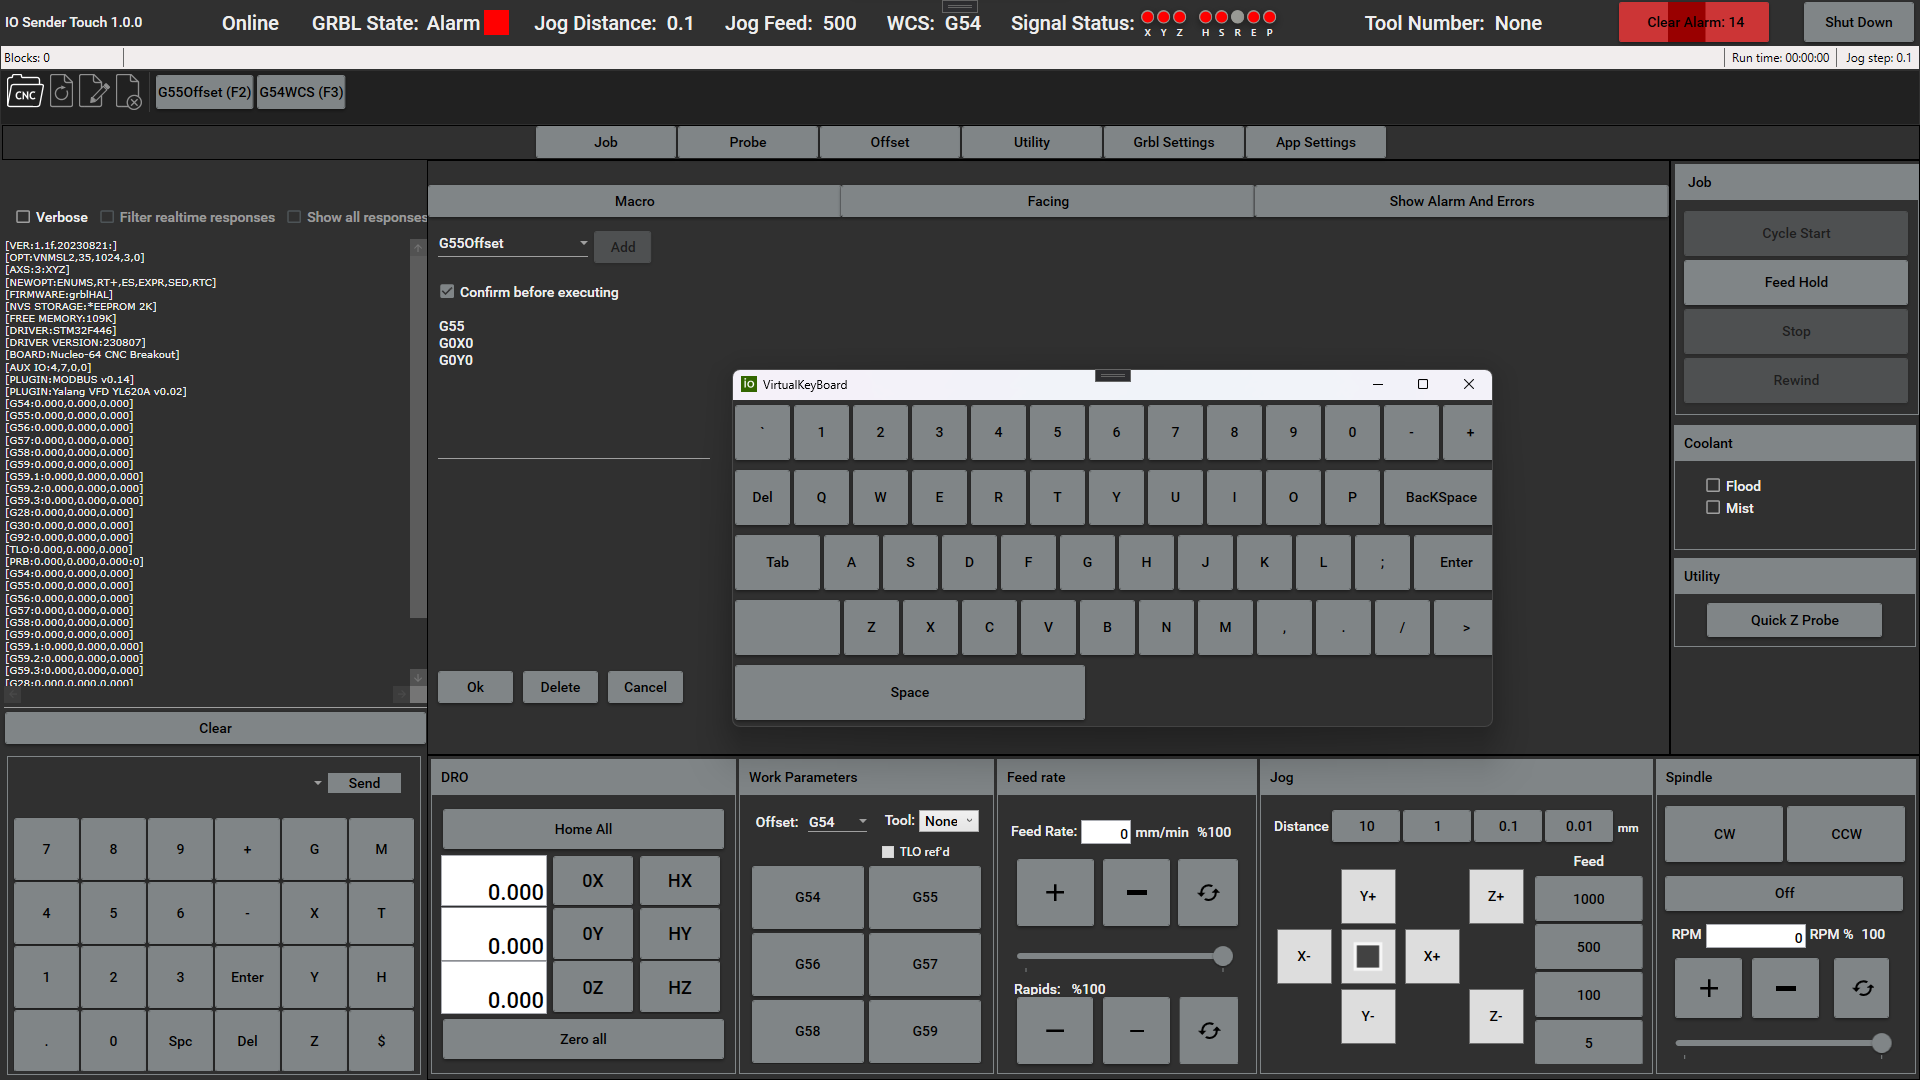
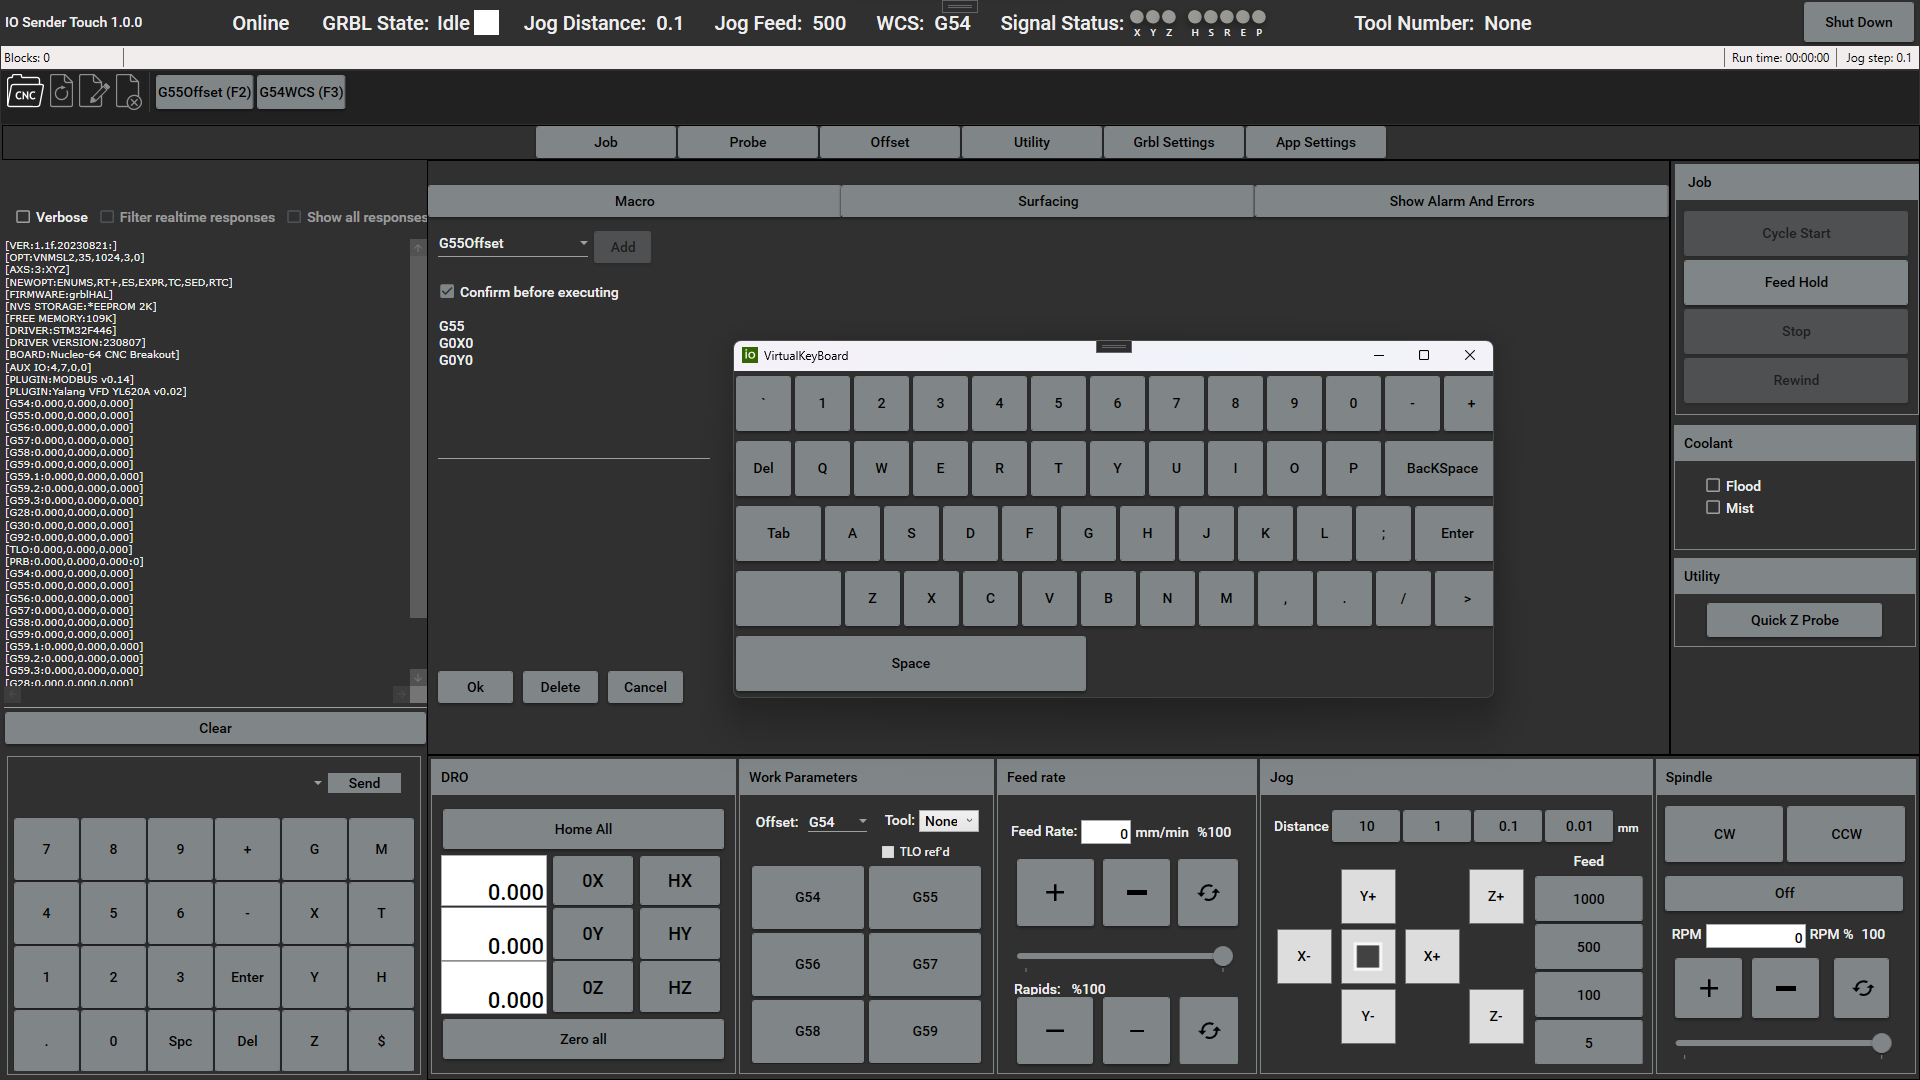
fixed screen shot

diff --git a/ioSender Touch/ioSender Touch/Views/UtilityView.xaml b/ioSender Touch/ioSender Touch/Views/UtilityView.xaml
@@ -17,9 +17,9 @@
                 <ColumnDefinition ></ColumnDefinition>
             </Grid.ColumnDefinitions>
             <Button Grid.Column="0" Name="BtnMacro" Content="Macro" Command="{Binding ShowView}" CommandParameter="Macro"></Button>
-            <Button Grid.Column="1" Name="Facing" Content="Facing" Command="{Binding ShowView}" CommandParameter="Surfacing"></Button>
+            <Button Grid.Column="1" Name="Facing" Content="Surfacing" Command="{Binding ShowView}" CommandParameter="Surfacing"></Button>
             <Button Grid.Column="2" Name="BtnAlarm" Content="Show Alarm And Errors" Command="{Binding ShowView}" CommandParameter="Alarm"></Button>
         </Grid>
-      <ContentControl Grid.Row="1" Name="ContentControl" Content="{Binding Control}" ></ContentControl>
+        <ContentControl Grid.Row="1" Name="ContentControl" Content="{Binding Control}" ></ContentControl>
     </Grid>
 </UserControl>
